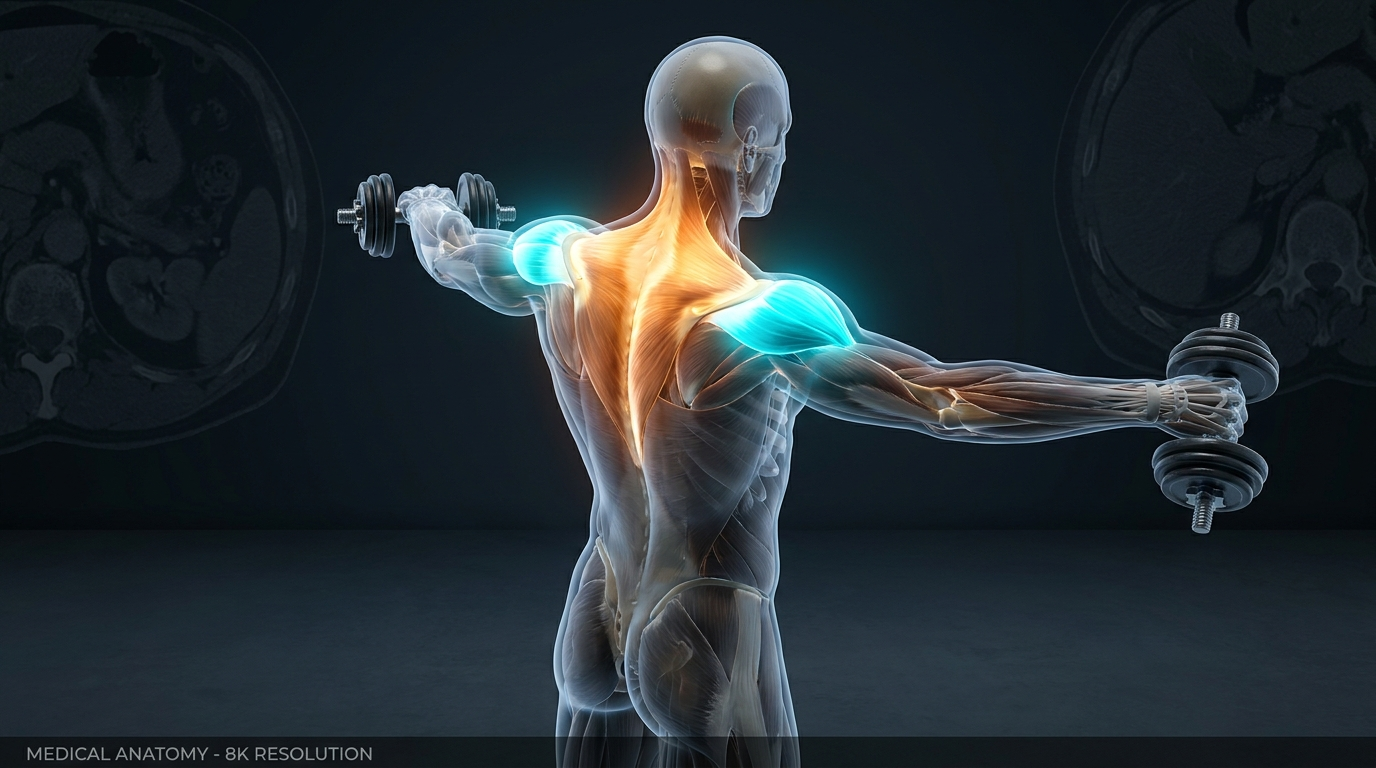
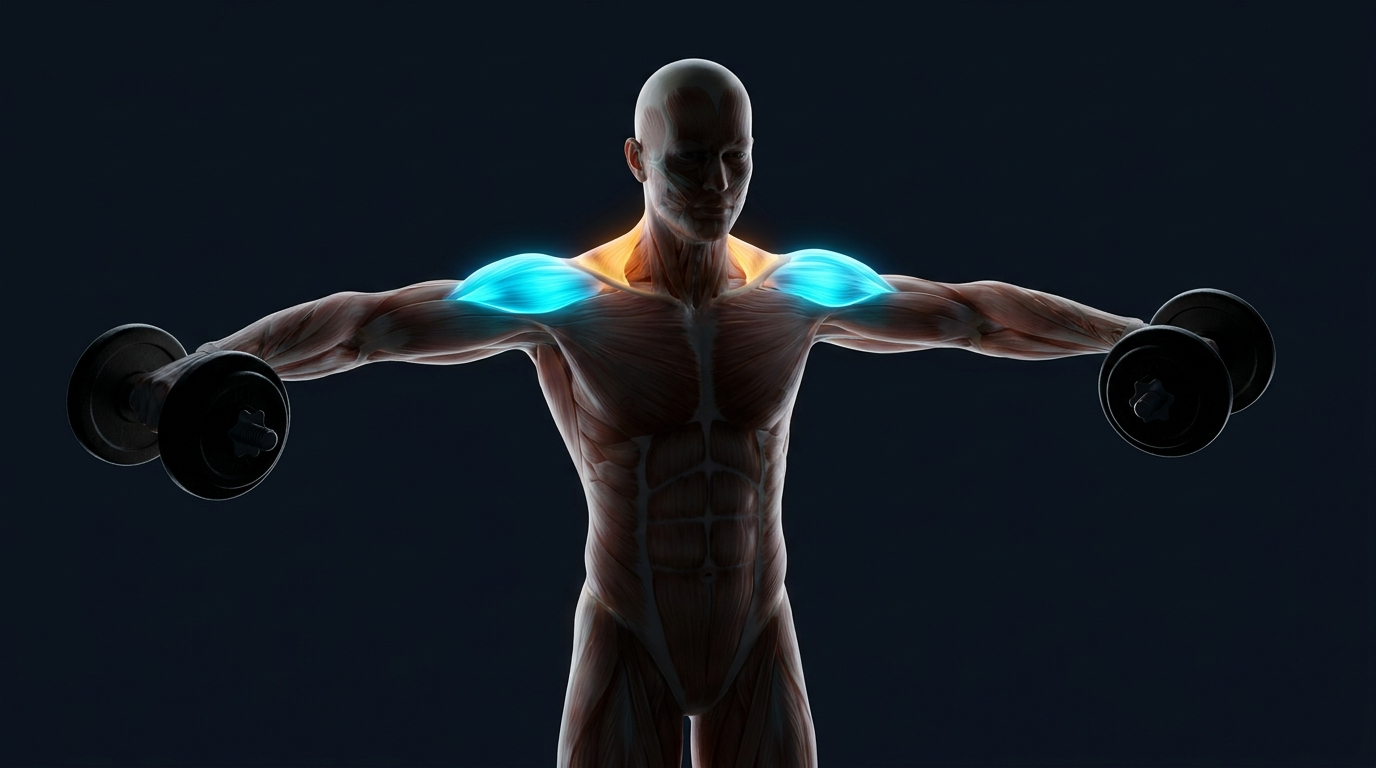
fix(anatomy): remove background cross-section from lateral raise render and deploy

diff --git a/scratch/fix_lateral_raise.js b/scratch/fix_lateral_raise.js
@@ -1,0 +1,42 @@
+const fs = require('fs');
+const path = require('path');
+
+const apiKey = process.env.GEMINI_API_KEY || '';
+
+const prompt = `Ultra-detailed photorealistic 3D medical anatomy octane render of an athletic muscular man performing a standing Dumbbell Lateral Raise. Arms abducted 90 degrees parallel to the floor in the scapular plane with slight forward tilt. Clean, minimalist dark slate studio background (#090d16) with soft rim lighting and completely empty solid dark background with zero floating background cross sections, zero charts, zero overlays. Lateral Deltoids (acromial head) glowing brightly in electric cyan (#38bdf8), with Upper Trapezius and Supraspinatus in warm amber (#f59e0b). 8k resolution, photorealistic 3D medical fitness render.`;
+
+async function regenerateLateralRaise() {
+  console.log('Regenerating #19 Dumbbell Lateral Raise with pure clean studio background...');
+  try {
+    const url = `https://generativelanguage.googleapis.com/v1beta/models/nano-banana-pro-preview:generateContent?key=${apiKey}`;
+    const res = await fetch(url, {
+      method: 'POST',
+      headers: { 'Content-Type': 'application/json' },
+      body: JSON.stringify({
+        contents: [{ parts: [{ text: prompt }] }]
+      })
+    });
+
+    if (res.ok) {
+      const data = await res.json();
+      const cand = data.candidates?.[0];
+      const part = cand?.content?.parts?.[0];
+      if (part?.inlineData?.data) {
+        const buf = Buffer.from(part.inlineData.data, 'base64');
+        const dest = path.join(__dirname, '..', 'public', 'anatomy', 'lateral_raise.jpg');
+        fs.writeFileSync(dest, buf);
+        const artDest = path.join('C:', 'Users', 'Collin', '.gemini', 'antigravity', 'brain', '91e3175f-b6f8-401f-90f4-0dbfefd0301b', 'lateral_raise.jpg');
+        fs.writeFileSync(artDest, buf);
+        console.log(`🎉 SUCCESS: Saved clean lateral_raise.jpg (${buf.length} bytes)`);
+      } else {
+        console.log('No image in response');
+      }
+    } else {
+      console.log('Failed:', res.status, await res.text());
+    }
+  } catch (e) {
+    console.error('Error:', e);
+  }
+}
+
+regenerateLateralRaise();
